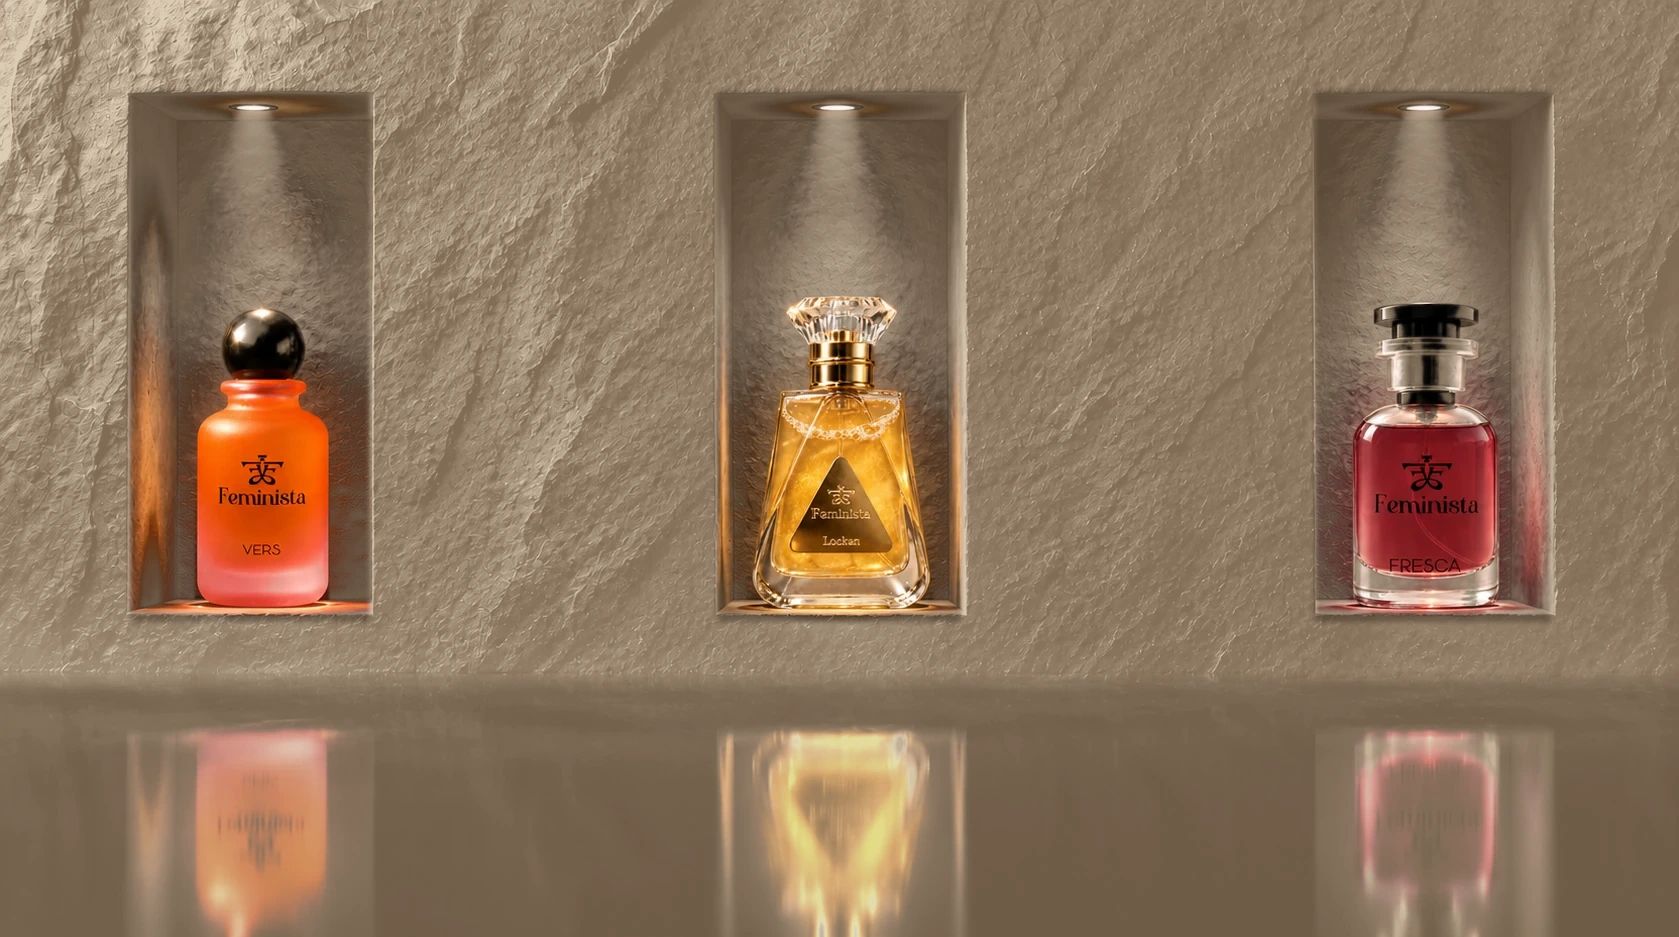
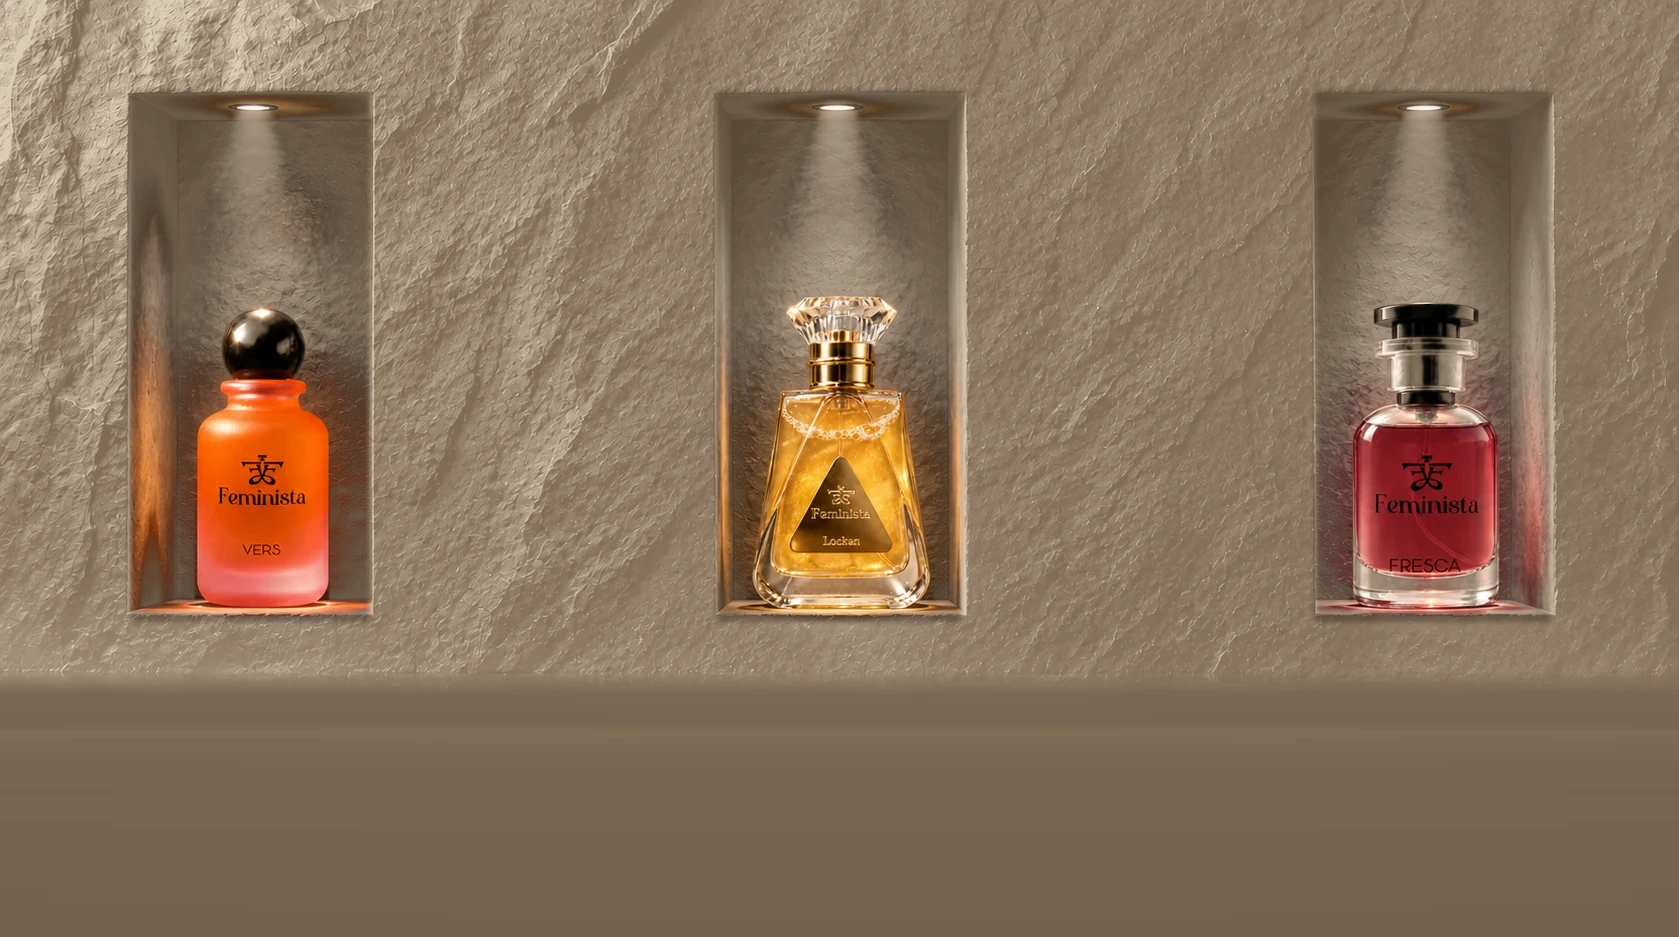
Brand Edition: orbit cleaned up, Art of 180 and Turn removed, wall without reflections; gallery card 4 removed

Changed region(s): [[0.4026, 0.7737, 0.5884, 1.0], [0.0619, 0.7737, 0.2168, 1.0], [0.8052, 0.7737, 0.9291, 1.0]]

diff --git a/brand.html b/brand.html
@@ -8,22 +8,21 @@
 <meta name="theme-color" content="#fbf6ef">
 <link rel="preconnect" href="https://fonts.googleapis.com"><link rel="preconnect" href="https://fonts.gstatic.com" crossorigin>
 <link href="https://fonts.googleapis.com/css2?family=Playfair+Display:ital,wght@0,400;0,500;1,400&family=Raleway:wght@300;400;500;600&display=swap" rel="stylesheet">
-<script type="importmap">{ "imports": { "three": "https://cdn.jsdelivr.net/npm/three@0.160.0/build/three.module.js", "three/addons/": "https://cdn.jsdelivr.net/npm/three@0.160.0/examples/jsm/" } }</script>
-<link rel="stylesheet" href="brand.css?v=16">
+<link rel="stylesheet" href="brand.css?v=19">
 </head>
 <body>
 
 <header class="bar">
-  <nav class="links"><a href="#s1">The Wall</a><a href="#s2">The Fusion</a><a href="#s-turn">The Turn</a><a href="#s3">The Stage</a></nav>
+  <nav class="links"><a href="#s1">The Wall</a><a href="#s2">The Fusion</a><a href="#s3">The Stage</a></nav>
   <a class="mark" href="#top" aria-label="Feminista"><img src="site/img/logo-black.webp" alt="Feminista"></a>
-  <nav class="links end"><a href="#s4">The Art of 180</a><a href="#s6">Collection</a><a href="#s-orbit">The Orbit</a></nav>
+  <nav class="links end"><a href="#s6">Collection</a><a href="#s-orbit">The Orbit</a></nav>
 </header>
 
 <main id="top">
   <section class="intro">
     <p class="eyebrow r">The House of Feminista</p>
-    <h1 class="r">Seven studies, in the <em>brand's</em> own light.</h1>
-    <p class="r">The wall, the fusion, the turn, the stage, the Art of 180, the collection and the orbit, one after another.</p>
+    <h1 class="r">Five studies, in the <em>brand's</em> own light.</h1>
+    <p class="r">The wall, the fusion, the stage, the collection and the orbit, one after another.</p>
   </section>
 
   <!-- 01 · the wall -->
@@ -31,10 +30,10 @@
     <div class="chead r"><p class="num">01</p><div><p class="eyebrow">The Stone Wall</p><h2>Each in her own light</h2></div><p class="note">Hover a niche to bring up its light.</p></div>
     <div class="frame r">
       <div class="pw" id="pw">
-        <img class="pw-base" src="assets/wall-feminista-cream.webp?v=2" alt="Vers, Locken and Fresca, each lit in its own niche of basalt" loading="lazy">
-        <a class="pw-n" href="site/product.html?p=vers" style="--l:7.6%;--w:14.6%"><img class="pw-lit" src="assets/wall-feminista-cream.webp?v=2" alt="" loading="lazy"><span class="pw-hit"></span><span class="pw-cap"><i>The Intimate</i><b>Vers</b></span></a>
-        <a class="pw-n" href="site/product.html?p=locken" style="--l:42.6%;--w:14.8%"><img class="pw-lit" src="assets/wall-feminista-cream.webp?v=2" alt="" loading="lazy"><span class="pw-hit"></span><span class="pw-cap"><i>The Magnetic</i><b>Locken</b></span></a>
-        <a class="pw-n" href="site/product.html?p=fresca" style="--l:78.2%;--w:14.3%"><img class="pw-lit" src="assets/wall-feminista-cream.webp?v=2" alt="" loading="lazy"><span class="pw-hit"></span><span class="pw-cap"><i>The Luminous</i><b>Fresca</b></span></a>
+        <img class="pw-base" src="assets/wall-feminista-cream.webp?v=3" alt="Vers, Locken and Fresca, each lit in its own niche of basalt" loading="lazy">
+        <a class="pw-n" href="site/product.html?p=vers" style="--l:7.6%;--w:14.6%"><img class="pw-lit" src="assets/wall-feminista-cream.webp?v=3" alt="" loading="lazy"><span class="pw-hit"></span><span class="pw-cap"><i>The Intimate</i><b>Vers</b></span></a>
+        <a class="pw-n" href="site/product.html?p=locken" style="--l:42.6%;--w:14.8%"><img class="pw-lit" src="assets/wall-feminista-cream.webp?v=3" alt="" loading="lazy"><span class="pw-hit"></span><span class="pw-cap"><i>The Magnetic</i><b>Locken</b></span></a>
+        <a class="pw-n" href="site/product.html?p=fresca" style="--l:78.2%;--w:14.3%"><img class="pw-lit" src="assets/wall-feminista-cream.webp?v=3" alt="" loading="lazy"><span class="pw-hit"></span><span class="pw-cap"><i>The Luminous</i><b>Fresca</b></span></a>
       </div>
     </div>
   </section>
@@ -59,24 +58,10 @@
     </div>
   </section>
 
-  <!-- 03 · the turn: Locken in 3D -->
-  <section class="chap turn" id="s-turn">
-    <div class="pin">
-      <div class="chead"><p class="num">03</p><div><p class="eyebrow">The Turn</p><h2>Locken, all the way round</h2></div></div>
-      <div class="turn-gl" id="turn-gl" aria-label="Locken by Feminista in 3D: it turns, the cap lifts, it sprays, and the cap closes"></div>
-      <ol class="turn-steps">
-        <li class="on"><b>Faceted glass</b>Scroll to turn it.</li>
-        <li><b>A full turn</b>The crystal cap lifts away.</li>
-        <li><b>One spray</b>Never just sweet.</li>
-        <li><b>Closed</b>Locken, complete.</li>
-      </ol>
-    </div>
-  </section>
-
   <!-- 04 · the stage -->
   <section class="chap stage" id="s3">
     <div class="st-bg" id="st-bg"><i data-k="vers"></i><i data-k="locken" class="on"></i><i data-k="fresca"></i></div>
-    <div class="chead r"><p class="num">04</p><div><p class="eyebrow">The Stage</p><h2>One composition at a time</h2></div></div>
+    <div class="chead r"><p class="num">03</p><div><p class="eyebrow">The Stage</p><h2>One composition at a time</h2></div></div>
     <div class="st-wrap">
       <div class="st-copy">
         <article data-k="vers"><p class="tag">N°01 · The Intimate</p><h3>Vers</h3><p class="line">The Beauty of Contrast.</p><p>Cinnamon, cardamom and ginger over a heart of peony and iris.</p><p class="price">₹8,000 <span>· 100 ml</span></p></article>
@@ -91,27 +76,9 @@
     </div>
   </section>
 
-  <!-- 04 · the art of 180 -->
-  <section class="chap a180" id="s4">
-    <div class="chead r"><p class="num">05</p><div><p class="eyebrow">The Art of 180</p><h2>Crafted, not manufactured</h2></div></div>
-    <div class="a-grid">
-      <div class="a-copy">
-        <p class="day r"><span>Day</span><b id="day">000</b><i>of 180</i></p>
-        <ol class="phases" id="phases">
-          <li><b>01</b><span>Selection</span><i>Rare, pure materials, chosen for character.</i></li>
-          <li><b>02</b><span>Composition</span><i>Top, heart and base, balanced by hand.</i></li>
-          <li><b>03</b><span>Maturation</span><i>180 days of rest.</i></li>
-          <li><b>04</b><span>Evaluation</span><i>If it is not ready, it waits longer.</i></li>
-          <li><b>05</b><span>Bottling</span><i>Filtered, bottled and finished by hand.</i></li>
-        </ol>
-        <p class="a-more"><a class="link" href="lab-room.html">Step into the laboratory</a></p>
-      </div>
-    </div>
-  </section>
-
   <!-- 06 · the collection -->
   <section class="chap shop" id="s6">
-    <div class="chead r"><p class="num">06</p><div><p class="eyebrow">The Collection</p><h2>Find the one that is her</h2></div></div>
+    <div class="chead r"><p class="num">04</p><div><p class="eyebrow">The Collection</p><h2>Find the one that is her</h2></div></div>
     <div class="cards">
       <a class="card r" href="site/product.html?p=vers"><figure><img src="assets/vers-cut.webp" alt="Vers" loading="lazy"></figure><p class="tag">The Intimate</p><h3>Vers</h3><p class="price">₹8,000 <span>· 100 ml</span></p><span class="link">Discover</span></a>
       <a class="card r" href="site/product.html?p=locken"><figure><img src="assets/locken-cut.webp" alt="Locken" loading="lazy"></figure><p class="tag">The Magnetic</p><h3>Locken</h3><p class="price">₹8,000 <span>· 100 ml</span></p><span class="link">Discover</span></a>
@@ -125,7 +92,7 @@
         <div class="ob-photo"><img src="assets/brand/bloom.webp" alt="Locken by Feminista in warm light, with peonies and jasmine"></div>
         <div class="ob-haze" data-out aria-hidden="true"></div>
         <div class="ob-type">
-          <p class="eyebrow" data-out><span class="ob-num">07</span> The collection, in orbit</p>
+          <p class="eyebrow" data-out><span class="ob-num">05</span> The collection, in orbit</p>
           <h2 data-out>Created <em>for</em> her.</h2>
           <h2 class="ob-sans" data-out>Never adapted to her.</h2>
           <p class="ob-cue" data-out>Scroll into the bottle</p>
@@ -137,9 +104,8 @@
           <div class="ob-slot" data-slot><img src="assets/locken-cut.webp" alt=""></div>
           <div class="ob-slot" data-slot><img src="assets/fresca-cut.webp" alt=""></div>
           <div class="ob-title" data-type><h2>The <em>Collection</em></h2><p>three expressions</p></div>
-          <div class="ob-corner tr" data-type><b>180</b><span>Days of rest,<br>in every bottle</span></div>
           <div class="ob-corner bl" data-type><b>N°03</b><span>Extraits de parfum</span></div>
-          <div class="ob-corner br" data-type><p>Three compositions for one woman, each given six months to become itself.</p><button type="button" class="ob-pill" data-to-stream><span>Meet each one</span><i>→</i></button></div>
+          <div class="ob-corner br" data-type><button type="button" class="ob-pill" data-to-stream><span>Meet each one</span><i>→</i></button></div>
         </div>
         <div class="ob-item" data-scent style="visibility:hidden">
           <i class="ob-glow" data-glow style="background:radial-gradient(closest-side, #f0915a66, transparent)"></i>
@@ -193,8 +159,7 @@
   </div>
 </footer>
 
-<script type="module" src="brand-spin.js?v=6"></script>
-<script src="brand-orbit.js?v=1"></script>
-<script src="brand.js?v=9"></script>
+<script src="brand-orbit.js?v=3"></script>
+<script src="brand.js?v=10"></script>
 </body>
 </html>

diff --git a/brand-orbit.js b/brand-orbit.js
@@ -27,7 +27,7 @@
   }
 
   const pin = $('.ob-pin'), photo = $('.ob-photo'), photoImg = $('.ob-photo img'), heroBits = $$('[data-out]'), layer = $('.ob-layer');
-  const ctype = $$('[data-type]'), slots = $$('[data-slot]'), items = $$('[data-scent]');
+  const ctype = $$('[data-type]'), slots = $$('[data-slot]'), items = $$('[data-scent]'), titleEl = $('.ob-title');
   const counter = $('[data-counter]'), cnum = $('[data-counter-num]'), cbar = $('[data-counter-bar]');
   const prevY = new Array(items.length).fill(0);
   let lastU = -1, lastC = -1;
@@ -74,14 +74,19 @@
     const blurIn = (1 - sharpen) * 14;
     ctype.forEach((n, i) => { const k = clamp(away * 1.4 - i * .04), b = blurIn + k * 12;
       n.style.opacity = String((.35 + .65 * sharpen) * (1 - k)); n.style.filter = b > .05 ? `blur(${b.toFixed(1)}px)` : 'none';
-      n.style.transform = `translate3d(0, ${(-k * 20).toFixed(1)}px, 0) scale(${(1.03 - .03 * sharpen).toFixed(4)})`; });
-    const rx = Math.min(W * (mob ? .36 : .3), 560), ry = vh * (mob ? .26 : .22), turn = u * Math.PI * 5;
+      n.style.transform = `${n === titleEl ? 'translate(-50%, -50%) ' : ''}translate3d(0, ${(-k * 20).toFixed(1)}px, 0) scale(${(1.03 - .03 * sharpen).toFixed(4)})`; });
+    // the orbit clears the title: wide enough to pass its sides, tall enough to pass above and below it
+    const tw = titleEl.offsetWidth, th = titleEl.offsetHeight, bh = slots[0].offsetHeight;
+    const rx = mob ? W * .34 : clamp(tw / 2 + bh * .45 + 40, 0, W / 2 - bh * .4 - 30);
+    const ry = mob ? vh * .3 : clamp(th / 2 + bh * .62 + 24, vh * .24, vh * .36);
+    const turn = u * Math.PI * 5;
     slots.forEach((n, i) => {
-      const a = (i / slots.length) * Math.PI * 2 + turn, depth = Math.sin(a), front = (depth + 1) / 2, burst = 1 + away * 1.6;
-      n.style.transform = `translate(-50%, -50%) translate3d(${(Math.cos(a) * rx * burst).toFixed(1)}px, ${(depth * ry * burst).toFixed(1)}px, 0) rotate(${(-Math.cos(a) * 6).toFixed(2)}deg) scale(${((.74 + .46 * front) * (1 + away * 2)).toFixed(3)})`;
-      n.style.zIndex = depth > 0 ? '3' : '1';
-      n.style.opacity = String((.4 + .6 * sharpen) * (.6 + .4 * front) * (1 - away));
-      const b = blurIn * .6 + (1 - front) * 2 + away * 10; n.style.filter = b > .05 ? `blur(${b.toFixed(1)}px)` : 'none';
+      const a = (i / slots.length) * Math.PI * 2 + turn, depth = Math.sin(a), front = (depth + 1) / 2;
+      const x = Math.cos(a) * rx * (1 + away * .6), y = depth * ry * (1 + away * .6);
+      n.style.transform = `translate(-50%, -50%) translate3d(${x.toFixed(1)}px, ${y.toFixed(1)}px, 0) rotate(${(-Math.cos(a) * 5).toFixed(2)}deg) scale(${(.8 + .3 * front).toFixed(3)})`;
+      n.style.zIndex = mob ? '1' : depth > 0 ? '3' : '1';
+      n.style.opacity = String(sharpen * (.82 + .18 * front) * (1 - away));
+      n.style.filter = 'none';
     });
 
     // each composition, held in turn

diff --git a/index.html b/index.html
@@ -38,7 +38,7 @@
 <body>
 <main>
   <h1>The House of Feminista — Hero studies</h1>
-  <p class="sub" id="count">Seven studies</p>
+  <p class="sub" id="count">Six studies</p>
 
   <div class="grid" id="grid">
     <a class="card" href="wall.html">
@@ -65,18 +65,10 @@
         <span class="open">Open study <span>→</span></span>
       </div>
     </a>
-    <a class="card" href="site/art-of-180.html">
-      <div class="shot"><img src="assets/a180-preview.png" alt="" style="position:absolute;inset:0;width:100%;height:100%;object-fit:cover"></div>
-      <div class="meta">
-        <h2>4 · The Art of 180</h2>
-        <p>One bottle on the real workbench: its notes are gathered and poured in, it rests 180 days, is evaluated, then joins the collection. Scroll-driven, in five phases.</p>
-        <span class="open">Open study <span>→</span></span>
-      </div>
-    </a>
     <a class="card" href="site/index.html">
       <div class="shot"><img src="assets/site-preview.png" alt="" style="position:absolute;inset:0;width:100%;height:100%;object-fit:cover;object-position:top"></div>
       <div class="meta">
-        <h2>5 · The Website</h2>
+        <h2>4 · The Website</h2>
         <p>The full Feminista demo site: the spotlight wall as hero, the original content and pages, and the Art of 180 lab.</p>
         <span class="open">Open study <span>→</span></span>
       </div>
@@ -84,7 +76,7 @@
     <a class="card" href="lab-room.html">
       <div class="shot"><img src="assets/lab-room-preview.png" alt="" style="position:absolute;inset:0;width:100%;height:100%;object-fit:cover"></div>
       <div class="meta">
-        <h2>6 · The Laboratory</h2>
+        <h2>5 · The Laboratory</h2>
         <p>Step into the Feminista laboratory: real photographs set at real depths, a camera that walks in as the lamps come on, and a bottle waiting on the bench.</p>
         <span class="open">Open study <span>→</span></span>
       </div>
@@ -92,7 +84,7 @@
     <a class="card" href="brand.html">
       <div class="shot"><img src="assets/brand-preview.png" alt="" style="position:absolute;inset:0;width:100%;height:100%;object-fit:cover;object-position:top"></div>
       <div class="meta">
-        <h2>7 · The Brand Edition</h2>
+        <h2>6 · The Brand Edition</h2>
         <p>The six studies one after another, retold in the brand kit: the wall, the fusion, the stage, the Art of 180, the laboratory and the collection. Light, quiet, with a little depth.</p>
         <span class="open">Open study <span>→</span></span>
       </div>

diff --git a/brand.js b/brand.js
@@ -76,7 +76,7 @@
 
   // ── 04 · the art of 180: the days count, the phases light in turn ──
   const a180 = document.getElementById('s4'), day = document.getElementById('day'), phases = [...document.querySelectorAll('#phases li')], ph = document.getElementById('phases');
-  const aImg = a180.querySelector('.a-img img');  // optional
+  const aImg = a180 && a180.querySelector('.a-img img');  // optional
   function a180Frame() {
     const r = a180.getBoundingClientRect(), p = qs.has('all') ? .9 : clamp((innerHeight - r.top) / (innerHeight + r.height * .55));
     const k = seg(p, .15, .85);
@@ -97,7 +97,7 @@
     requestAnimationFrame(frame);
     if (vis(fusion) || qs.has('fz')) fusionFrame();
     if (vis(stage)) { sm.x += (sm.tx - sm.x) * .05; turn.style.setProperty('--ry', `${(sm.x * 14 + (reduce ? 0 : Math.sin(now / 3400) * 3)).toFixed(2)}deg`); }
-    if (vis(a180) || qs.has('all')) a180Frame();
+    if (a180 && (vis(a180) || qs.has('all'))) a180Frame();
     if (lab && (vis(lab) || qs.has('all'))) {
       lm.x += (lm.tx - lm.x) * .05; lm.y += (lm.ty - lm.y) * .05;
       const r = lab.getBoundingClientRect(), p = clamp((innerHeight - r.top) / (innerHeight + r.height));

diff --git a/brand.css b/brand.css
@@ -302,3 +302,13 @@ h1 em, h2 em { font-style: italic; color: var(--wine); }
   .ob-text h3 { font-size: 46px; margin-top: 8px; } .ob-line { font-size: 16px; margin-top: 8px; } .ob-text .link { display: none; }
   .ob-counter { bottom: auto; top: 18px; }
 }
+
+/* orbit, clean: a calmer title, nothing crossing it */
+.ob-title h2 { font-size: clamp(44px, 4.8vw, 92px); }
+.ob-title p { font-size: clamp(20px, 2vw, 34px); }
+.ob-corner.br { max-width: none; }
+.ob-pill { margin-top: 0; }
+@media (max-width: 760px) { .ob-title h2 { font-size: 40px; } .ob-title { text-shadow: 0 0 18px var(--cream-2), 0 0 30px var(--cream-2); z-index: 2; } .ob-corner.br { left: auto; right: var(--edge); } }
+.ob-corner .ob-pill span { display: inline; margin: 0; font: inherit; letter-spacing: inherit; text-transform: inherit; color: inherit; }
+
+.wall .pw-cap i { color: #fbf3e6; text-shadow: 0 1px 6px rgba(60, 40, 25, .35); }
